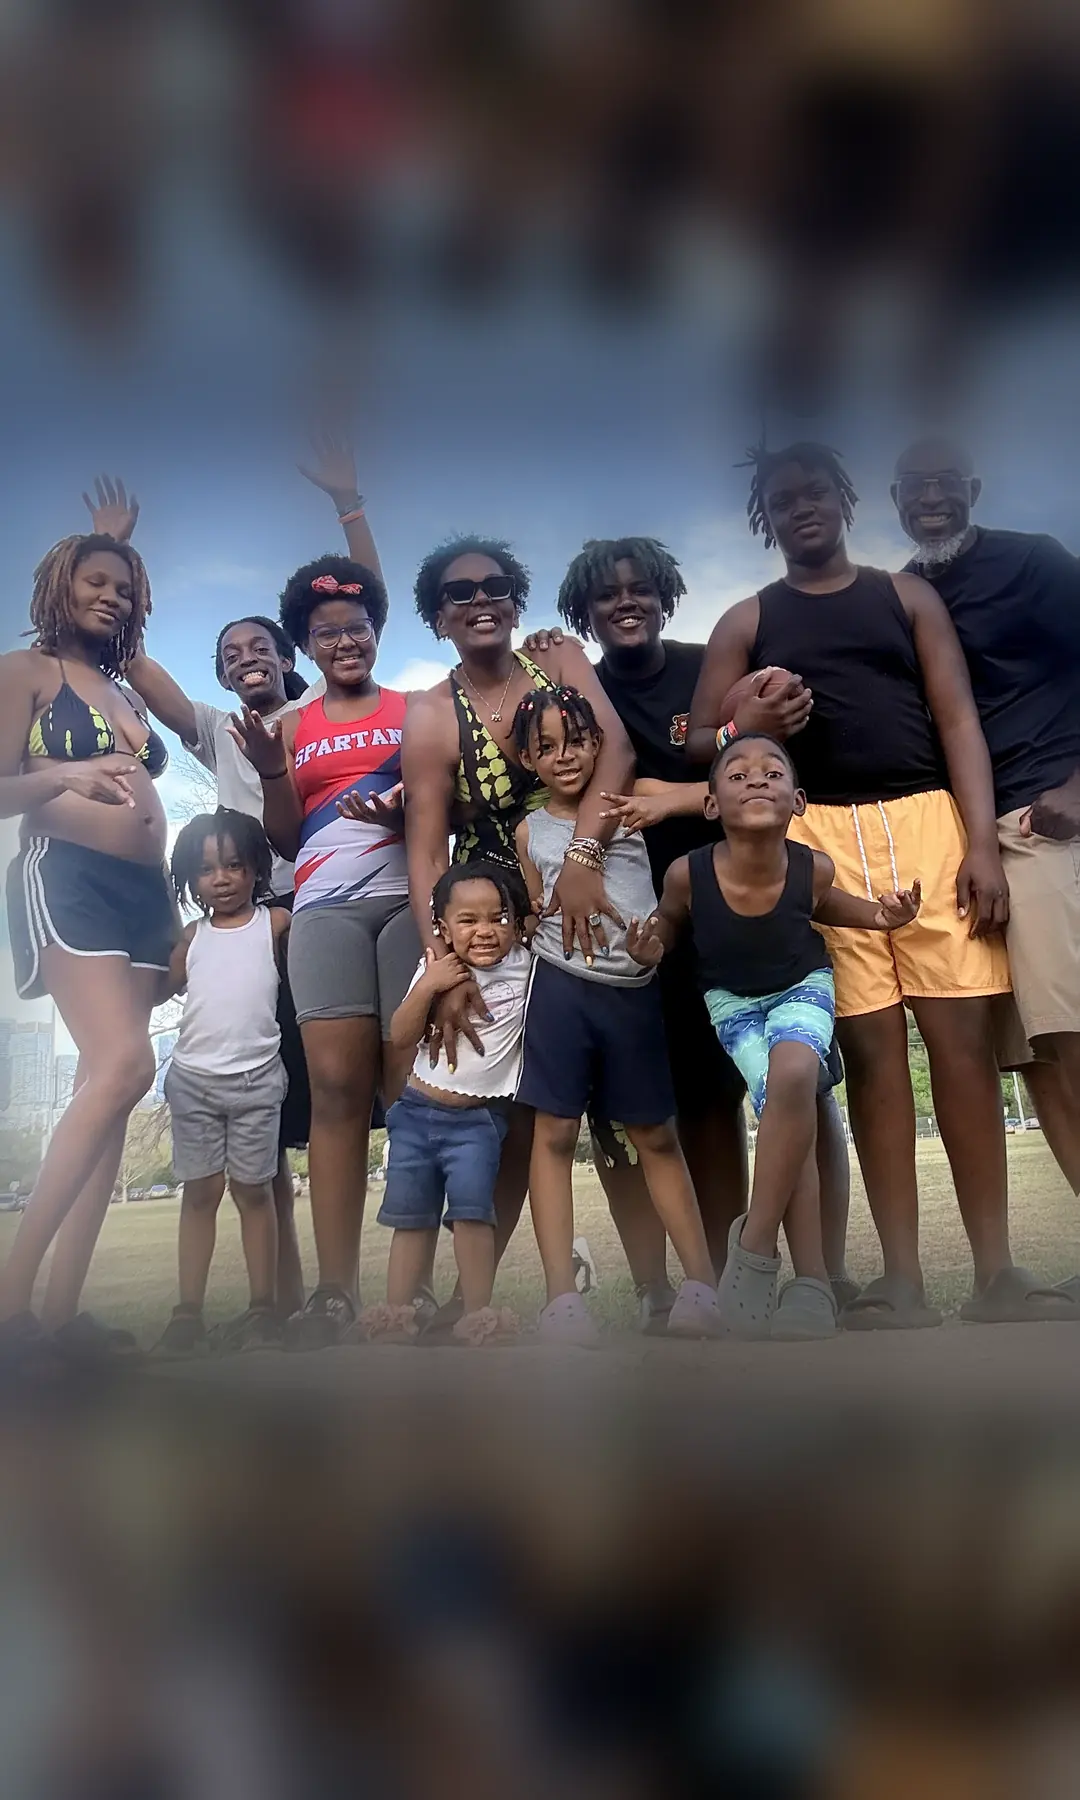
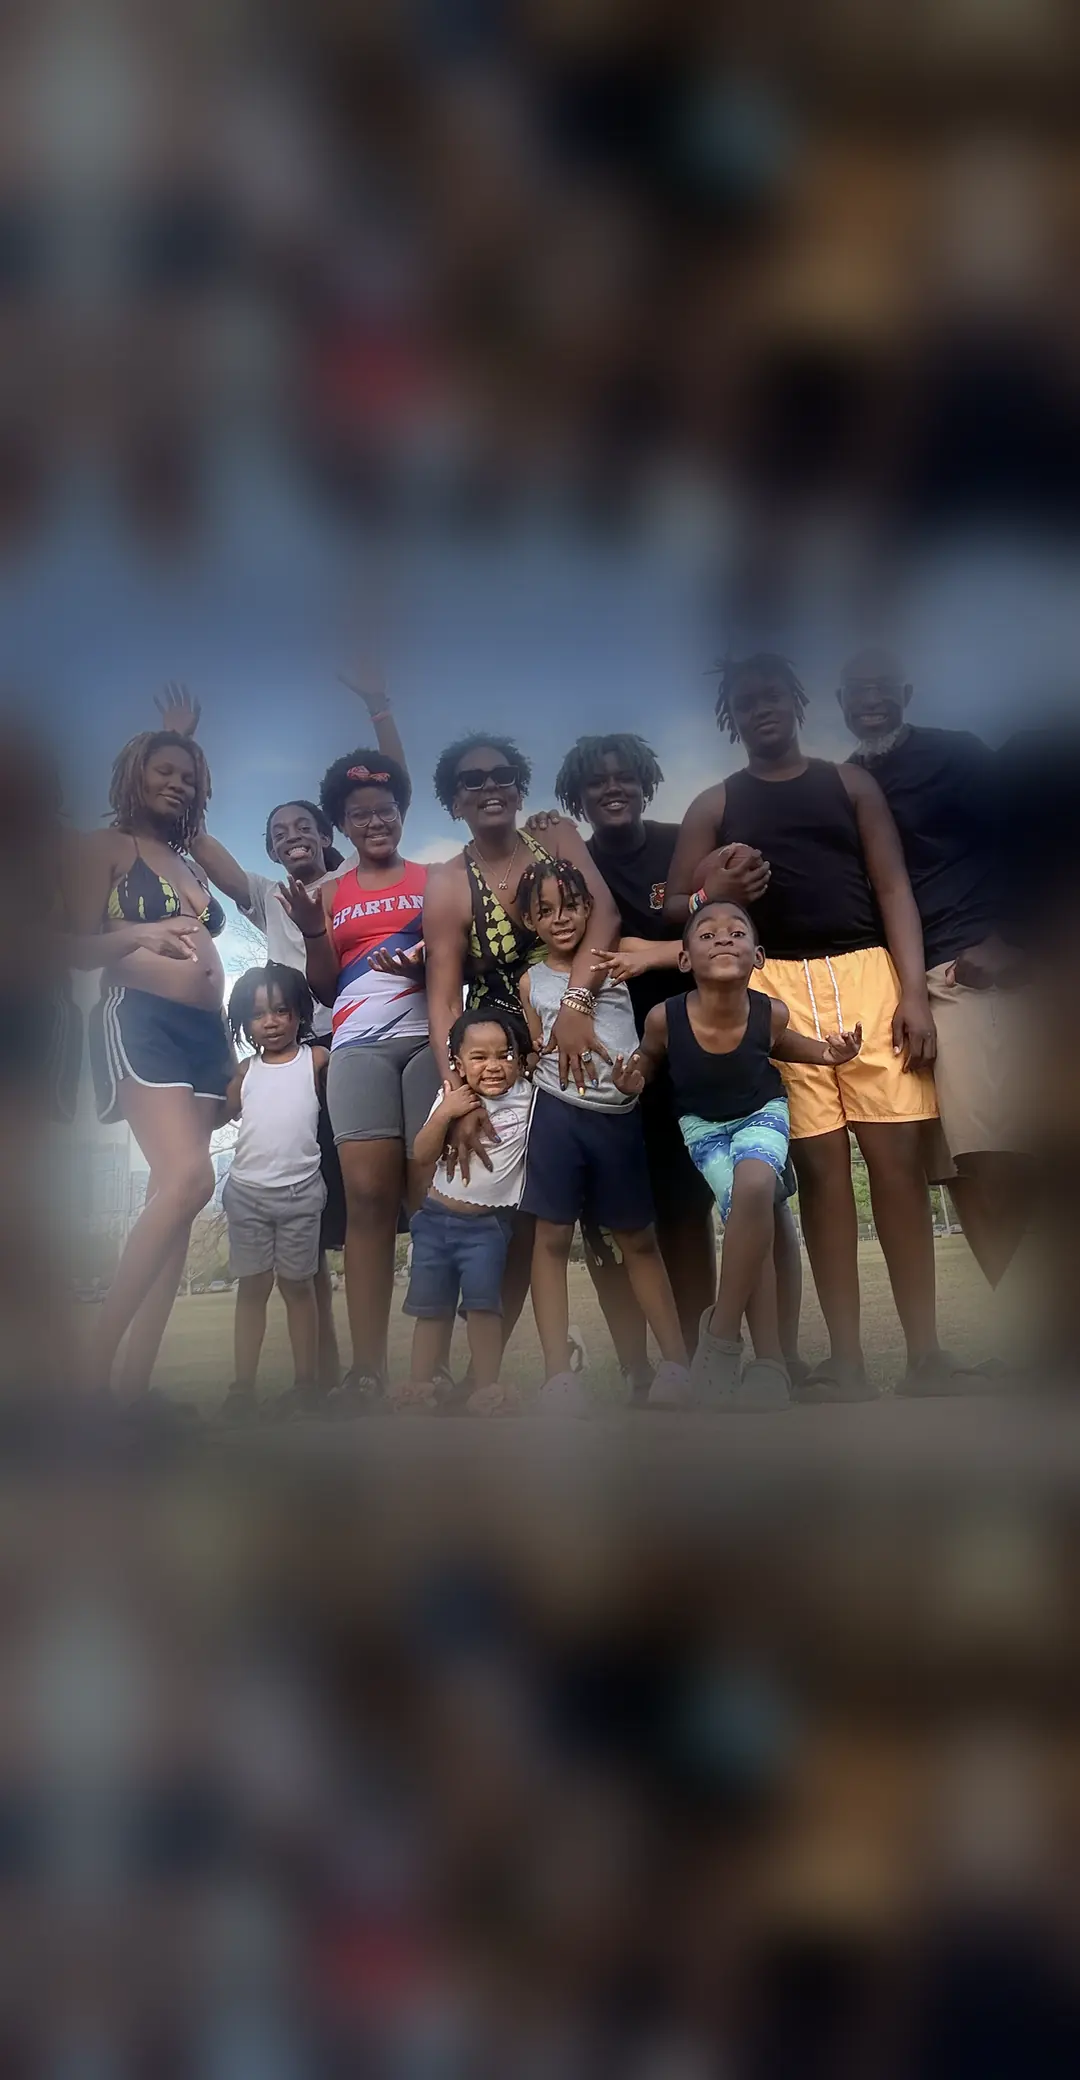
Add files via upload

diff --git a/index.html b/index.html
@@ -150,10 +150,11 @@ h1.hero-h em{font-family:var(--serif);font-style:italic;font-weight:600;letter-s
 .hero-sub b{color:var(--ink);font-weight:700}
 .hero-cta{display:flex;flex-wrap:wrap;gap:13px;align-items:center}
 @media(max-width:520px){.hero-cta .btn{width:100%}}
-.trust{display:flex;flex-wrap:wrap;gap:9px;margin-top:26px;font-size:12.5px;font-weight:700}
-.trust span{display:inline-flex;align-items:center;gap:7px;color:var(--ink2);background:rgba(255,255,255,.80);
-  backdrop-filter:blur(8px);-webkit-backdrop-filter:blur(8px);padding:8px 14px;border-radius:999px;box-shadow:var(--shadow-s);transition:.35s var(--ease)}
-.trust span:hover{transform:translateY(-2px);color:var(--ink);box-shadow:var(--shadow-m)}
+.trust{display:flex;flex-wrap:wrap;gap:6px 22px;margin-top:26px;font-size:13px;font-weight:700}
+.trust span{display:inline-flex;align-items:center;gap:7px;color:var(--ink2);transition:color .3s;
+  text-shadow:0 1px 2px rgba(253,250,246,.95),0 0 12px rgba(253,250,246,.9),0 0 26px rgba(253,250,246,.75)}
+.trust span:hover{color:var(--ink)}
+.trust svg{filter:drop-shadow(0 0 6px rgba(253,250,246,.95))}
 .trust svg{width:15px;height:15px;color:var(--teal)}
 
 .hero-stage{position:relative;height:clamp(500px,94vh,960px);display:flex;align-items:flex-end;justify-content:center;align-self:end}
@@ -211,7 +212,11 @@ h2.sec-h em.rainbow{background:linear-gradient(100deg,var(--coral),var(--sun) 50
 .fld.done .ftick{opacity:1;transform:translateY(-50%) scale(1)}
 .fld.done.sel::after{border-color:var(--teal);right:36px}
 .fld.done select{padding-right:62px}
-.clearbar{display:flex;justify-content:flex-end;margin-top:10px}
+.clearbar{display:flex;justify-content:center;margin-top:12px}
+#idxForm .clearbar{justify-content:flex-end}
+.formcard .clearlink{background:none;box-shadow:none;color:#E02B3F;padding:8px 6px;font-size:13px;letter-spacing:.1em;
+  text-decoration:underline;text-decoration-thickness:2px;text-underline-offset:4px}
+.formcard .clearlink:hover{background:none;box-shadow:none;color:#FF3D6E;transform:translateY(-1px)}
 .clearlink{background:#E02B3F;border:none;cursor:pointer;font-size:12px;font-weight:800;letter-spacing:.12em;text-transform:uppercase;
   color:#fff;padding:11px 20px;border-radius:999px;box-shadow:0 6px 18px rgba(224,43,63,.32);transition:.3s var(--ease)}
 .clearlink:hover{background:#FF3D6E;transform:translateY(-2px) scale(1.04);box-shadow:0 10px 26px rgba(255,61,110,.48),0 0 22px rgba(255,61,110,.4)}
@@ -322,18 +327,18 @@ h2.sec-h em.rainbow{background:linear-gradient(100deg,var(--coral),var(--sun) 50
 .thanks p b{color:var(--blue);font-weight:700}
 
 /* ---------- family band ---------- */
-.family{position:relative;overflow:hidden;padding:clamp(60px,7vw,90px) 0 clamp(64px,11vh,150px);text-align:center;min-height:100svh;display:flex;align-items:flex-end;background:#060D16}
+.family{position:relative;overflow:hidden;padding:clamp(50px,6vw,80px) 0 clamp(46px,7vh,96px);text-align:center;min-height:100svh;display:flex;align-items:flex-end;background:#060D16}
 
 .family-bg{position:absolute;inset:0;background-size:cover;background-position:center}
 .family-scrim{position:absolute;inset:0;background:
-  linear-gradient(180deg,rgba(6,13,22,.58) 0%,rgba(6,13,22,.26) 34%,rgba(6,13,22,.62) 62%,rgba(6,13,22,.92) 100%),
-  radial-gradient(70% 42% at 50% 88%,rgba(6,13,22,.72),transparent 76%)}
+  linear-gradient(180deg,rgba(6,13,22,.56) 0%,rgba(6,13,22,.20) 30%,rgba(6,13,22,.50) 56%,rgba(6,13,22,.94) 88%),
+  radial-gradient(78% 34% at 50% 92%,rgba(6,13,22,.82),transparent 78%)}
 
 .family .inner{position:relative;z-index:2}
-.family h2{font-family:var(--serif);font-weight:600;text-transform:uppercase;letter-spacing:.04em;font-size:clamp(1.45rem,4vw,3rem);line-height:1.2;margin:0 auto;max-width:27ch;color:#fff;text-shadow:0 4px 30px rgba(8,24,42,.85)}
+.family h2{font-family:var(--serif);font-weight:600;text-transform:uppercase;letter-spacing:.04em;font-size:clamp(1.3rem,3.5vw,2.6rem);line-height:1.18;margin:0 auto;max-width:34ch;color:#fff;text-shadow:0 4px 30px rgba(8,24,42,.85)}
 .family h2 span{color:var(--gold)}
-.family p{margin:16px auto 0;max-width:58ch;color:#F1F6FA;font-size:clamp(.95rem,1.6vw,1.06rem);text-shadow:0 2px 18px rgba(8,24,42,.9)}
-.family .tag{display:inline-block;margin-bottom:16px;font-size:10.5px;font-weight:800;letter-spacing:.28em;text-transform:uppercase;color:#fff;background:rgba(255,255,255,.16);backdrop-filter:blur(8px);padding:8px 16px;border-radius:999px}
+.family p{margin:13px auto 0;max-width:60ch;color:#F1F6FA;font-size:clamp(.95rem,1.6vw,1.06rem);text-shadow:0 2px 18px rgba(8,24,42,.9)}
+.family .tag{display:inline-block;margin-bottom:12px;font-size:10.5px;font-weight:800;letter-spacing:.28em;text-transform:uppercase;color:#fff;background:rgba(255,255,255,.16);backdrop-filter:blur(8px);padding:8px 16px;border-radius:999px}
 
 /* ---------- about ---------- */
 .about-in{display:grid;grid-template-columns:.95fr 1.05fr;gap:clamp(28px,5vw,66px);align-items:center}
@@ -379,6 +384,8 @@ h2.sec-h em.rainbow{background:linear-gradient(100deg,var(--coral),var(--sun) 50
 @keyframes pulsebtn{0%,100%{box-shadow:0 0 0 0 rgba(0,169,224,.42),0 14px 34px rgba(0,169,224,.3)}70%{box-shadow:0 0 0 26px rgba(0,169,224,0),0 18px 44px rgba(0,169,224,.42)}}
 .bigbtn:hover{transform:scale(1.055);box-shadow:0 0 42px rgba(0,229,255,.7),0 20px 50px rgba(0,169,224,.45);animation-play-state:paused}
 .consult .sm{margin-top:20px;font-size:13.5px;color:var(--ink2);font-weight:600}
+.consult .langs{margin:14px 0 0;font-family:var(--serif);font-style:italic;font-weight:600;
+  font-size:clamp(1.15rem,2.4vw,1.65rem);color:var(--accent);letter-spacing:.01em}
 .consult .sm a{font-weight:800;color:var(--blue-dk)}
 
 /* ---------- modal ---------- */
@@ -746,6 +753,7 @@ footer::before{content:"";position:absolute;inset:0;background:radial-gradient(7
     </div>
     <button class="bigbtn rv d1" data-open-consult>Book a Consultation</button>
     <p class="sm rv d2">Or reach out directly: <a href="tel:+17542269387">(754) 226-9387</a> &nbsp;&middot;&nbsp; <a href="mailto:Konnextionbbp@gmail.com">Konnextionbbp@gmail.com</a></p>
+    <p class="langs rv d3">Nou Pale Krey&ograve;l &nbsp;&amp;&nbsp; Hablamos Espa&ntilde;ol</p>
   </div>
 </section>
 
